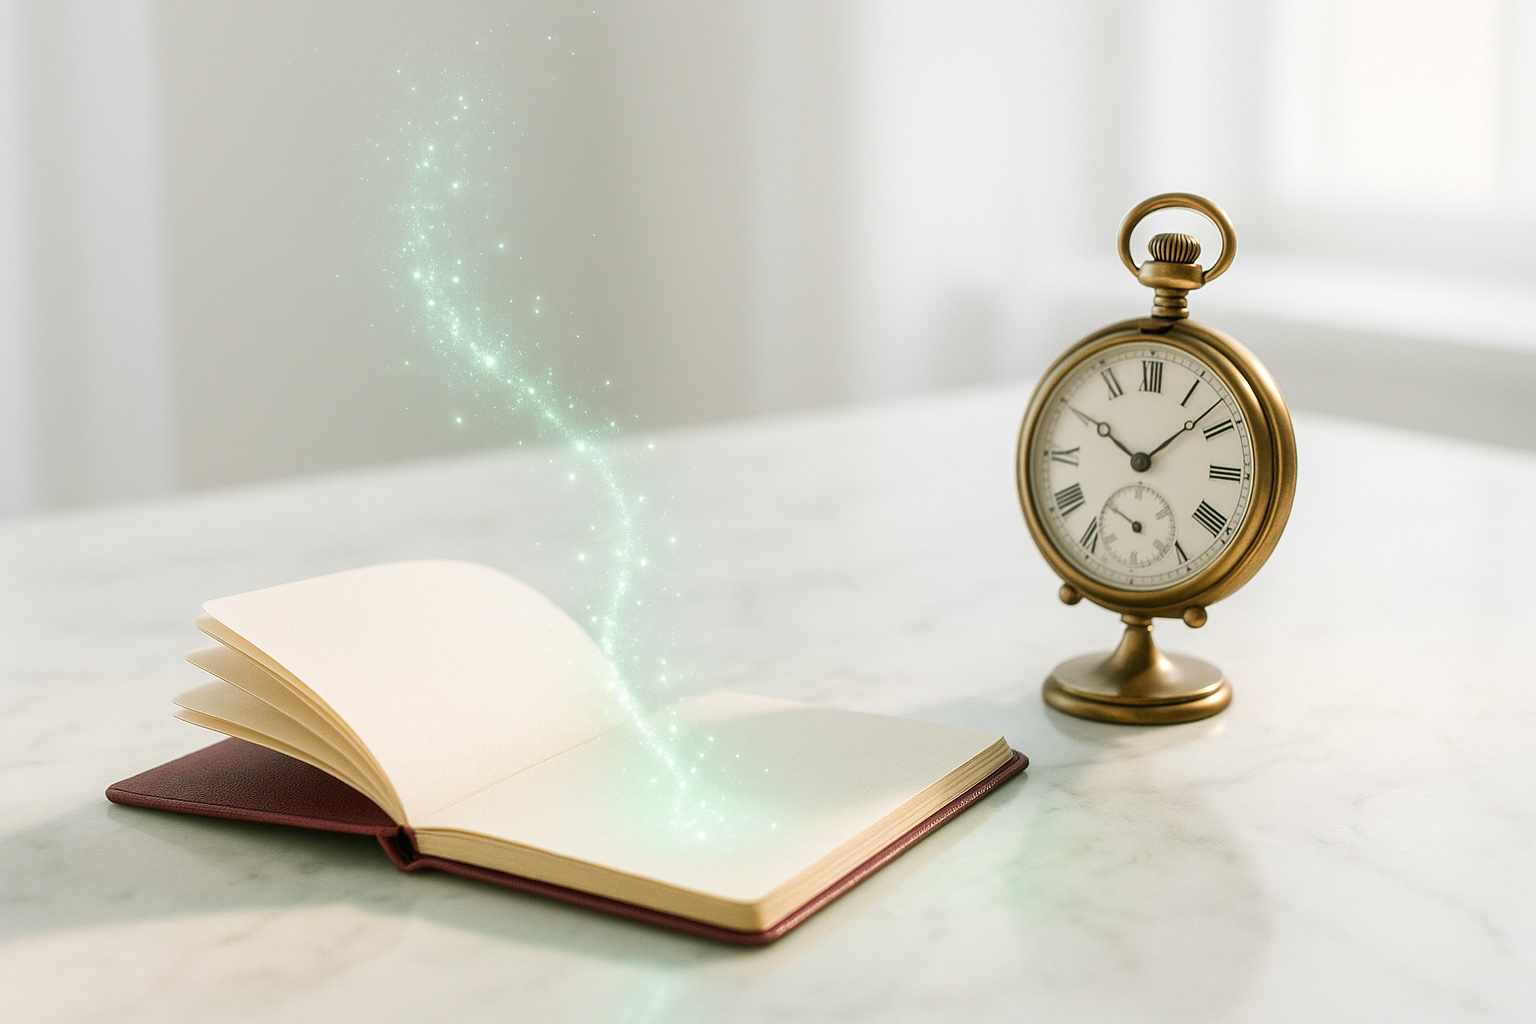
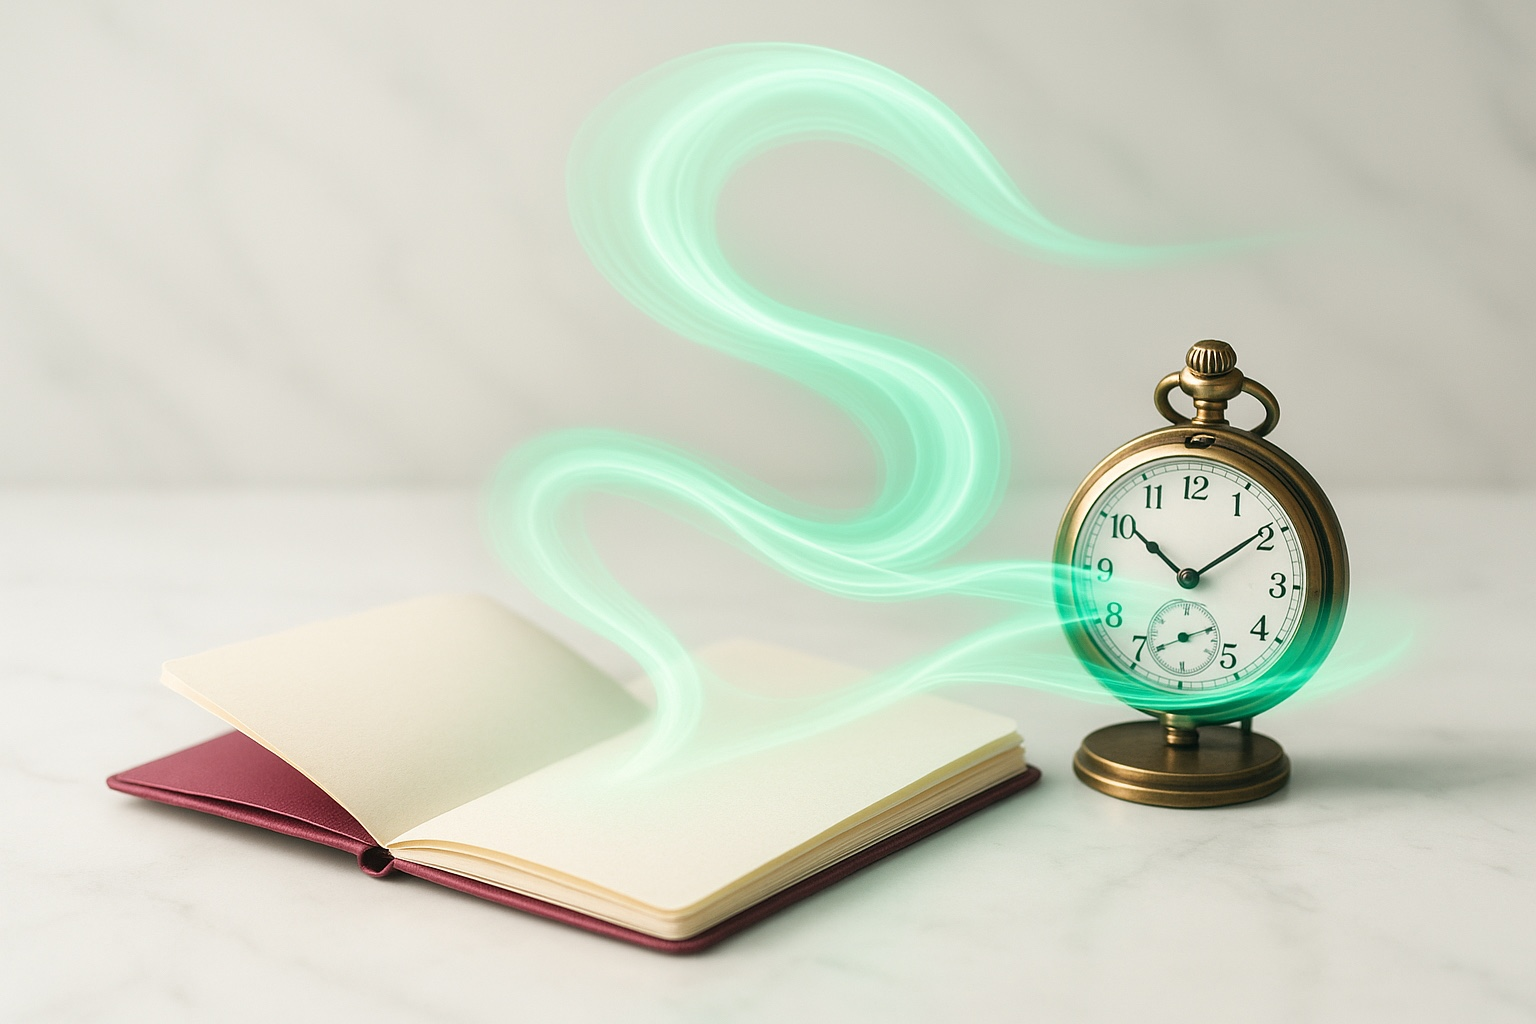
Cabeceras digitales: la luz verde pasa a ser una cinta continua (light painting de larga exposicion), sin particulas ni confeti; alt actualizados

diff --git a/lib/articulos.ts b/lib/articulos.ts
@@ -174,7 +174,7 @@ export const ARTICULOS: Articulo[] = [
     entradilla:
       "Desde marzo de 2026 el Ministerio acredita a ONG y sindicatos para representar a personas extranjeras sin cobrar. Ya son 498. Dónde están, qué les exige la norma y qué significa para quien vive de tramitar.",
     imagenAlt:
-      "Un registro abierto sobre una mesa de mármol blanco, un sello de latón al lado, y la silueta de España dibujada con cientos de puntos de luz verde flotando sobre las páginas.",
+      "Un registro abierto sobre mármol blanco, un sello de latón al lado, y una cinta de luz verde que se eleva de sus páginas y traza de un solo trazo el contorno de la península ibérica.",
     bloques: [
       { t: "h2", texto: "Qué es el Registro de Colaboradores de Extranjería" },
       {
@@ -343,7 +343,7 @@ export const ARTICULOS: Articulo[] = [
     entradilla:
       "La nacionalidad por residencia es el trámite que más ha crecido en los últimos años y el que peor fama tiene de plazos. Estos son los números oficiales, el coste real para el cliente y las tres cosas que hacen que un expediente tarde el doble.",
     imagenAlt:
-      "Un pasaporte granate abierto sobre mármol blanco, con una estela de luz verde que se eleva de sus páginas hacia un reloj de bolsillo de latón.",
+      "Un pasaporte granate abierto sobre mármol blanco del que sale una cinta continua de luz verde que se curva en el aire hasta rodear un reloj de bolsillo de latón.",
     bloques: [
       {
         t: "p",
@@ -594,7 +594,7 @@ export const ARTICULOS: Articulo[] = [
     entradilla:
       "2027 no solo trae la ola de renovaciones: también cambia las reglas de la factura de tu propio despacho. VeriFactu deja de ser un rumor y pasa a tener fechas firmes, sanciones concretas y una lista corta de cosas que conviene hacer antes.",
     imagenAlt:
-      "Una factura de papel sobre una carpeta de cuero verde claro cuya mitad derecha se disuelve en partículas de luz verde que forman un mosaico tipo QR luminoso.",
+      "Una factura de papel sobre mármol blanco de la que se eleva una cinta continua de luz verde que dibuja en el aire un cuadrado luminoso.",
     bloques: [
       {
         t: "p",
